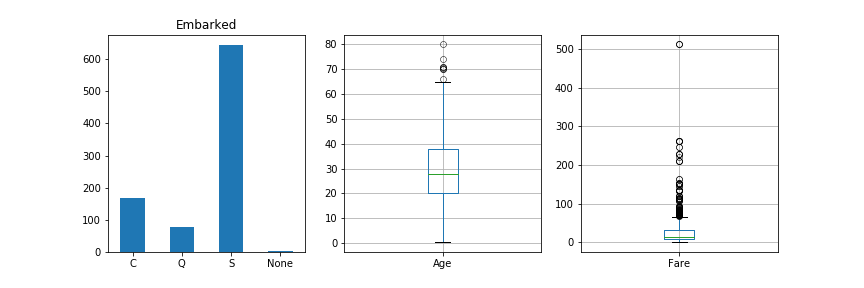
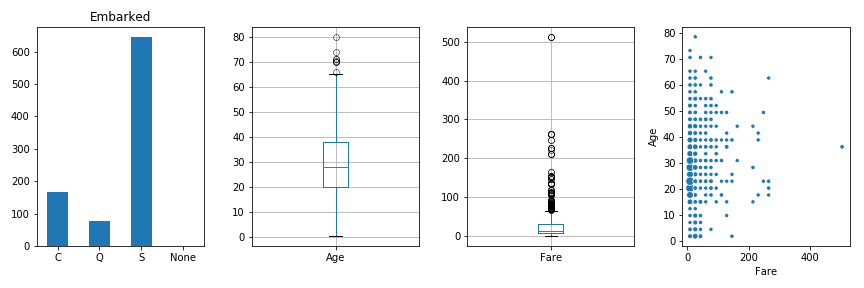
updating README and plot

diff --git a/setup.py b/setup.py
@@ -5,18 +5,18 @@ def readme():
         return f.read()
 
 setup(name='handyspark',
-      version='0.0.1dev2',
+      version='0.1.0a1',
       install_requires=['pyspark', 'matplotlib', 'numpy', 'scipy', 'seaborn', 'pandas', 'scikit-learn', 'findspark', 'pyarrow'],
-      description='HandySpark - bringing pandas capabilities to Spark dataframes',
+      description='HandySpark - bringing pandas-like capabilities to Spark dataframes',
       long_description=readme(),
       long_description_content_type='text/markdown',
       url='https://github.com/dvgodoy/handyspark',
       author='Daniel Voigt Godoy',
       author_email='datagnosis@gmail.com',
-      keywords=['spark', 'big data', 'data cleaning', 'plot', 'exploratory data analysis'],
+      keywords=['spark', 'big data', 'data cleaning', 'visualization', 'exploratory data analysis', 'pandas'],
       license='MIT',
       classifiers=[
-          'Development Status :: 2 - Pre-Alpha',
+          'Development Status :: 3 - Alpha',
           'Intended Audience :: Developers',
           'Intended Audience :: Education',
           'Intended Audience :: Science/Research',

diff --git a/README.md b/README.md
@@ -5,7 +5,7 @@
 
 ## Bringing pandas-like capabilities to Spark dataframes!
 
-***HandySpark*** is a package designed to improve ***PySpark*** user experience, especially when it comes to ***exploratory data analysis***, including ***visualization*** capabilities, which are completely absent in the original API.
+***HandySpark*** is a package designed to improve ***PySpark*** user experience, especially when it comes to ***exploratory data analysis***, including ***visualization*** capabilities!
 
 It makes fetching data or computing statistics for columns really easy, returning ***pandas objects*** straight away.
 
@@ -92,10 +92,11 @@ Name: Embarked, dtype: int64
 
 You can also make some plots:
 ```python
-fig, axs = plt.subplots(1, 3, figsize=(12, 4))
+fig, axs = plt.subplots(1, 4, figsize=(12, 4))
 hdf.cols['Embarked'].hist(ax=axs[0])
 hdf.cols['Age'].boxplot(ax=axs[1])
 hdf.cols['Fare'].boxplot(ax=axs[2])
+hdf.cols[['Fare', 'Age']].scatterplot(ax=axs[3])
 ```
 
 ![cols plots](/images/cols_plot.png)
@@ -197,7 +198,7 @@ hdf_filled = hdf.fill(categorical=['Embarked'])
 
 Categorical variables use a `mode` strategy by default.
 
-But you do not to stick with the basics anymore... you can fancy it up using ***stratify*** together with ***fill***:
+But you do not need to stick with the basics anymore... you can fancy it up using ***stratify*** together with ***fill***:
 ```python
 hdf_filled = hdf_filled.stratify(['Pclass', 'Sex']).fill(continuous=['Age'], strategy=['mean'])
 ```
@@ -230,7 +231,7 @@ In the example above, ***imputer*** is now a full-fledged serializable PySpark t
 
 ###  Detecting outliers
 
-Second only to the problem of missing data, outliers can pose a challenge for training proper machine learning models.
+Second only to the problem of missing data, outliers can pose a challenge for training machine learning models.
 
 ***HandyFrame*** to the rescue, with its ***outliers*** method:
 
@@ -318,6 +319,8 @@ hdf_fenced.cols['is_c_or_q'][:5]
 Name: is_c_or_q, dtype: bool
 ```
 
+You got that right! ***HandyFrame*** has a very convenient ***assign*** method, just like in pandas!
+
 It does not get much easier than that :-) There are several column methods available already:
 - betweeen / between_time
 - isin
@@ -389,17 +392,17 @@ import numpy as np
 hdf_fenced = hdf_fenced.assign(logFare=lambda Fare: np.log(Fare + 1))
 ```
 
+![logfare](/images/logfare.png)
+
 You can also use multiple columns:
 
 ```python
 hdf_fenced = hdf_fenced.assign(fare_times_age=lambda Fare, Age: Fare * Age)
 ```
 
-![logfare](/images/logfare.png)
-
 Even though the result is kinda pointless, it will work :-)
 
-Keep in mind that the ***return type***, that is the column type of the new column will be the same as the first column used (`Fare`, in the example).
+Keep in mind that the ***return type***, that is, the column type of the new column, will be the same as the first column used (`Fare`, in the example).
 
 What if you want to return something of a ***different*** type?! No worries! You only need to ***wrap*** your function with the desired return type. An example should make this more clear:
 
@@ -447,13 +450,13 @@ Name: fare_list, dtype: object
 OK, so, what happened here?
 
 1. First, we imported the necessary types, ***ArrayType*** and ***DoubleType***, since we are building a function that returns a list of doubles.
-2. We actually built the function - notice that we call ***apply*** straight from ***Fare***, as it is still understood as a pandas Series under the hood.
+2. We actually built the function - notice that we call ***apply*** straight from ***Fare***, which is treated as a pandas Series under the hood.
 3. We ***wrap*** the function with the return type `ArrayType(DoubleType())` by invoking the extended method `ret`.
 4. Finally, we assign it to a new column name, and that's it!
 
 ### Nicer exceptions
 
-Now, suppose you make a mistake while creating your function... if you have used Spark, even a little bit, you already realized that, when an exception is raised, it will be ***loooong***, right?
+Now, suppose you make a mistake while creating your function... if you have used Spark for a while, you already realized that, when an exception is raised, it will be ***loooong***, right?
 
 To help you with that, ***HandySpark*** analyzes the error message and parses it nicely for you at the very ***top*** of the error message, in ***bold red***:
 
